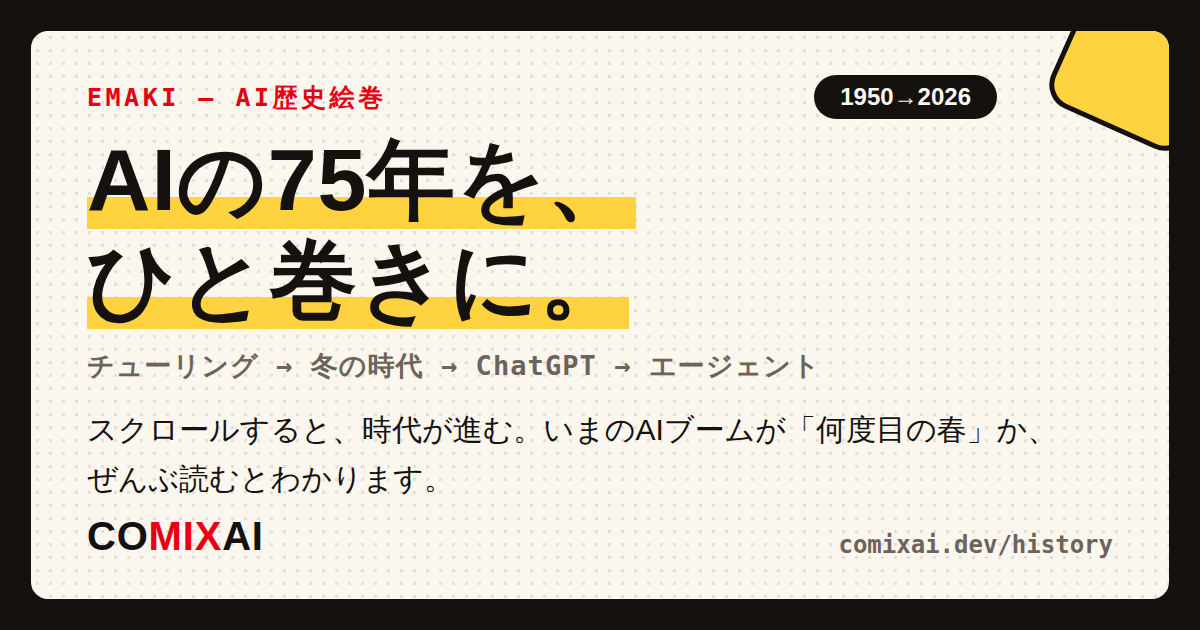
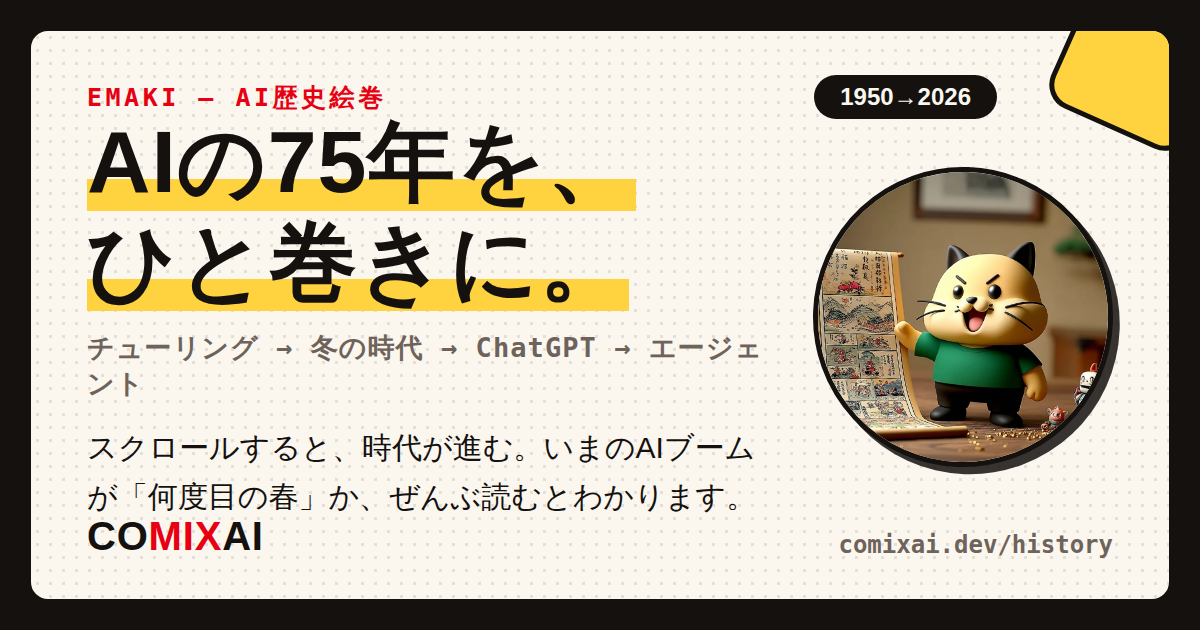
feat: add Midjourney cat scene images to all 14 emaki eras
- 絵文字プレースホルダを主人公猫のシーン画像(WebP, 1100px)に差し替え
- 表紙猫入りのOGシェア画像を再生成（生成スクリプトにも組み込み）

Claude-Session: https://claude.ai/code/session_01E23SyHF6KwmvrF3RLKpRqp

Changed region(s): [[0.0617, 0.181, 0.9558, 0.8143]]

diff --git a/src/app/history/page.tsx b/src/app/history/page.tsx
@@ -38,6 +38,7 @@ interface Era {
 const ERAS: Era[] = [
   {
     year: "1950",
+    image: "/history/1950.webp",
     fx: "dust", tint: "linear-gradient(180deg,#ead9b8,#c0a878)",
     title: "「機械は考えられるか？」",
     scene: "🤔💭🖥",
@@ -46,6 +47,7 @@ const ERAS: Era[] = [
   },
   {
     year: "1956",
+    image: "/history/1956.webp",
     fx: "dust", tint: "linear-gradient(180deg,#ead9b8,#c0a878)",
     title: "「人工知能」という言葉が生まれる",
     scene: "🎓🤝📛",
@@ -54,6 +56,7 @@ const ERAS: Era[] = [
   },
   {
     year: "1966",
+    image: "/history/1966.webp",
     fx: "dust", tint: "linear-gradient(180deg,#eaddc0,#cdbb90)",
     title: "はじめてのおしゃべりAI「ELIZA」",
     scene: "💬🤖👩⚕",
@@ -61,6 +64,7 @@ const ERAS: Era[] = [
   },
   {
     year: "1974",
+    image: "/history/1974.webp",
     fx: "snow", tint: "linear-gradient(180deg,#cfe0ff,#84a8e8)",
     title: "第1次AI冬、到来",
     scene: "❄🥶📉",
@@ -70,6 +74,7 @@ const ERAS: Era[] = [
   },
   {
     year: "1980s",
+    image: "/history/1980s.webp",
     fx: "snow", tint: "linear-gradient(180deg,#cfe0ff,#84a8e8)",
     title: "エキスパートシステムと、2度目の冬",
     scene: "🏭📚❄",
@@ -78,6 +83,7 @@ const ERAS: Era[] = [
   },
   {
     year: "1997",
+    image: "/history/1997.webp",
     fx: "stones", tint: "linear-gradient(180deg,#dde4f0,#9fb2d0)",
     title: "チェス王者、機械に敗れる",
     scene: "♟🤖🏆",
@@ -85,6 +91,7 @@ const ERAS: Era[] = [
   },
   {
     year: "2012",
+    image: "/history/2012.webp",
     fx: "spark", tint: "linear-gradient(180deg,#ffedb8,#eec25e)",
     title: "ディープラーニング革命",
     scene: "🧠⚡📸",
@@ -97,6 +104,7 @@ const ERAS: Era[] = [
   },
   {
     year: "2016",
+    image: "/history/2016.webp",
     fx: "stones", tint: "linear-gradient(180deg,#e4ece4,#b0c4b0)",
     title: "AlphaGo、囲碁で人間を超える",
     scene: "⚫⚪😱",
@@ -104,6 +112,7 @@ const ERAS: Era[] = [
   },
   {
     year: "2017",
+    image: "/history/2017.webp",
     fx: "network", tint: "linear-gradient(180deg,#ded2ff,#a390e8)",
     title: "運命の論文「Attention Is All You Need」",
     scene: "📄✨🔮",
@@ -113,6 +122,7 @@ const ERAS: Era[] = [
   },
   {
     year: "2020",
+    image: "/history/2020.webp",
     fx: "spark", tint: "linear-gradient(180deg,#ffedb8,#eec25e)",
     title: "GPT-3——「デカくしたら、賢くなった」",
     scene: "📈🐘💬",
@@ -121,6 +131,7 @@ const ERAS: Era[] = [
   },
   {
     year: "2022",
+    image: "/history/2022.webp",
     fx: "confetti", tint: "linear-gradient(180deg,#ffe4c0,#ffb870)",
     title: "ChatGPT、世界を変えた2ヶ月",
     scene: "🚀🌍💥",
@@ -134,6 +145,7 @@ const ERAS: Era[] = [
   },
   {
     year: "2023",
+    image: "/history/2023.webp",
     fx: "confetti", tint: "linear-gradient(180deg,#ffdce8,#ffa8c4)",
     title: "生成AI元年——絵も動画も",
     scene: "🎨🎬🎵",
@@ -145,6 +157,7 @@ const ERAS: Era[] = [
   },
   {
     year: "2024-25",
+    image: "/history/2024-25.webp",
     fx: "code", tint: "linear-gradient(180deg,#cdeef8,#7cc4dd)",
     title: "エージェント時代のはじまり",
     scene: "🤖🛠🏃",
@@ -158,6 +171,7 @@ const ERAS: Era[] = [
   },
   {
     year: "2026",
+    image: "/history/2026.webp",
     fx: "sparkle", tint: "linear-gradient(180deg,#fff2c8,#ffd268)",
     title: "そして、いま。",
     scene: "🧑💻🤝🤖",
